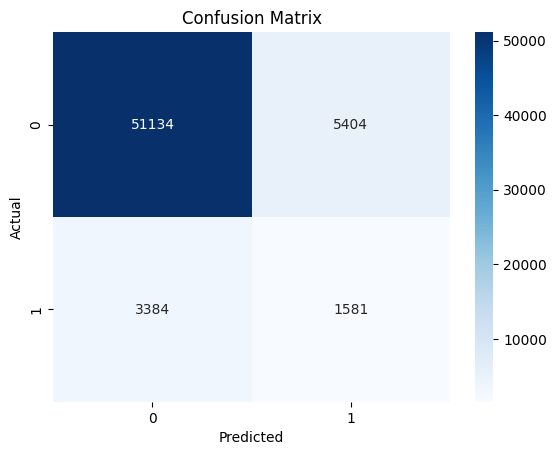
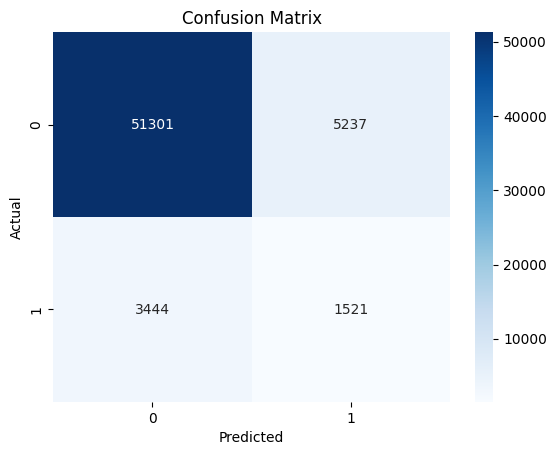
completed

diff --git a/README.md b/README.md
@@ -6,8 +6,13 @@
 ![Python version](https://img.shields.io/badge/Python%20version-3.10%2B-lightgrey)
 ![GitHub repo size](https://img.shields.io/github/repo-size/coder-red/credit-risk-model)
 ![GitHub last commit](https://img.shields.io/github/last-commit/coder-red/credit-risk-model)
+![LangChain](https://img.shields.io/badge/LangChain-1C3C3C?style=for-the-badge&logo=langchain&logoColor=white)
 ![Type of ML](https://img.shields.io/badge/Type%20of%20ML-Binary%20Classification-red)
 [![Streamlit App](https://static.streamlit.io/badges/streamlit_badge_black_white.svg)](https://credit-risk-model-demo.streamlit.app/)
+[![Hugging Face Spaces](https://img.shields.io/badge/%F0%9F%A4%97%20Hugging%20Face-Spaces-blue)](https://huggingface.co/spaces/mhmdxch/credit-hf)
+![SHAP](https://img.shields.io/badge/SHAP-000000?style=for-the-badge&logo=python&logoColor=white)
+![Pinecone](https://img.shields.io/badge/Pinecone-272046?style=for-the-badge&logo=pinecone&logoColor=white)
+![Groq](https://img.shields.io/badge/Groq-F55036?style=for-the-badge&logo=groq&logoColor=white)
 
 
 
@@ -36,7 +41,8 @@
 
 ## Business Context
 
-This model predicts if a borrower will pay back a loan or not. Lending institutions use this to make informed decisions on whether to approve a loan or not, manage credit risks, and reduce default related losses.
+This model predicts whether a loan applicant will repay or default using data from 250k+ applications. The predictions are made with LightGBM and explained with SHAP and LIME for transparency and outputs are structured in line with EBA compliance standards.
+
 
 ## Data source
 
@@ -45,22 +51,22 @@ This model predicts if a borrower will pay back a loan or not. Lending instituti
 
 ## Methods
 
-- Data cleaning,preprocessing and Feature engineering to create predictive variables
-- Exploratory data analysis
-- Model training and evaluation with Logistic Regression, XGBoost, and LightGBM
-- Optuna Hyperparameter tuning 
-- SHAP and LIME Model explainability
+- **Feature Engineering:** Cleaned and Merged data from 8 data sources, then engineered 58 predictive features.
+- **Automated Optimization:** Optuna was used for hyperparameter tuning and benchmarking Logistic Regression against XGBoost and LightGBM to find the best model
+- **Explainable AI (XAI):** Integrated SHAP and LIME to point out major financial drivers
+- **Regulatory RAG:** Built a RAG pipeline to reference model outputs with the EBA (European Banking Authority) standards.
+
 
 ## Live Demo
 
-**[Try the Interactive App](https://credit-risk-model-demo.streamlit.app/)**
+**[Try the Interactive App](https://huggingface.co/spaces/mhmdxch/credit-hf)**
 
 The trained LightGBM model is deployed as an interactive web application where you can:
 - Generate random credit risk predictions
 - Upload CSV files for batch predictions
 - View model performance metrics
 
-![App Screenshot](assets/Capture.PNG)
+![App Demo](assets/credit.gif)
 
 ## Tech Stack
 
@@ -69,7 +75,10 @@ The trained LightGBM model is deployed as an interactive web application where y
 - Scikit-learn, XGBoost, LightGBM (machine learning )
 - SHAP & LIME (model explainability)
 - Optuna (Hyperparameter tuning) 
+- LangChain (for RAG explanations)
+- Pinecone (vector Database)
 - Streamlit (interactive web application & deployment)
+- Hugging Face(Model deployment)
 
 ## Quick glance at the results
 
@@ -93,12 +102,13 @@ Top 3 models
 
 | Model     	         |    AUC-ROC score     |
 |----------------------|----------------------|
-| LightGBM(tuned)      | 72.57% 	            |
-| XGboost  (tuned)     | 72.42% 	            |
-| Logistic Regression  | 69.80% 	            |
+| LightGBM(tuned)      | 72.53% 	            |
+| XGboost  (tuned)     | 72.56% 	            |
+| LightGBM(Baseline)   | 72.08% 	            |
 
 
-- ***The final model used is: LightGBM***
+- ***The final model used is: LightGBM because it maximizes recall, catching a larger fraction of potential defaults.***
+
 - ***Metrics used: Recall, AUC-ROC, AUC-PR, Precision,	F1-score, KS, Gini***
 
 
@@ -117,8 +127,9 @@ Credit risk data is very imbalanced, so ROC-AUC is best here as it measures how 
 
 **What I found:**
 - Based on the analysis in this project it was found that loan amount, existing debt ratio, and age were the strongest predictors of default
-- Hyperparameter tuning barely helped improve the model performance, for example XGBoost went from 0.722349 to 0.724171 AUC and it took over 30 minutes to train. This suggests that features matter more than tuning
-- For imbalanced data, AUC-ROC matters way more than accuracy, and the 0.5 threshold doesn't work (except for logistic regression), the optimal threshold was 0.121
+- Hyperparameter tuning barely helped improve the model performance. This suggests that features matter more than tuning
+
+- For imbalanced data, AUC-ROC matters way more than accuracy, and the 0.5 threshold doesn't hold up. For example for Logistic Regression, the optimal threshold was 0.121
 
 **Recommendations:**
 - Recommendation would be to focus more on the loan amount when deciding since they carry the most risk and also accept that precision will be low, you'll reject some good customers to catch defaults
@@ -139,7 +150,7 @@ Credit risk data is very imbalanced, so ROC-AUC is best here as it measures how 
 credit-risk-model/
 ├── assets/                          # Images used in the README 
 │   ├── confusion_matrix_lgbm_tuned.png
-│   ├── Credit_img.png
+│   ├── credit.gif
 │   ├── roc_curve.png
 │   ├── shap_summary_bar.png
 │   └── target_dist.png
